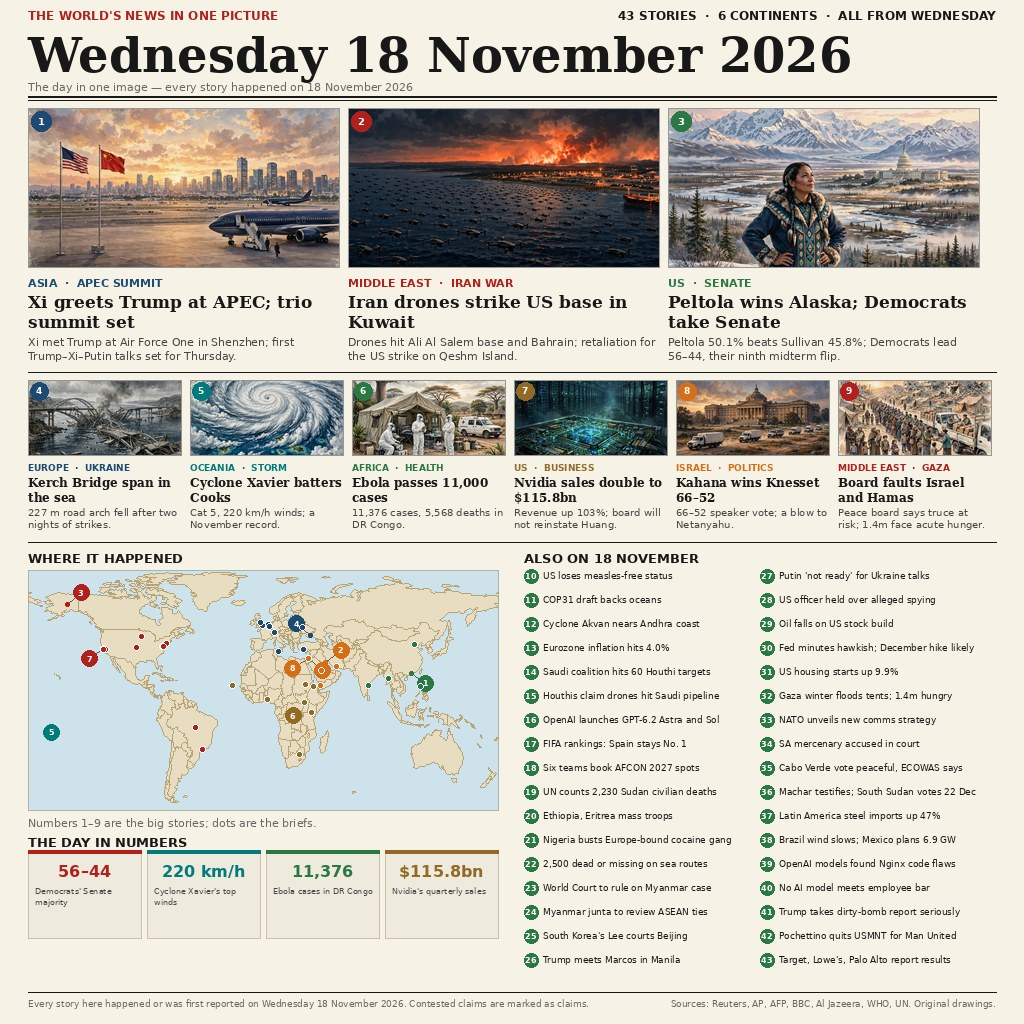
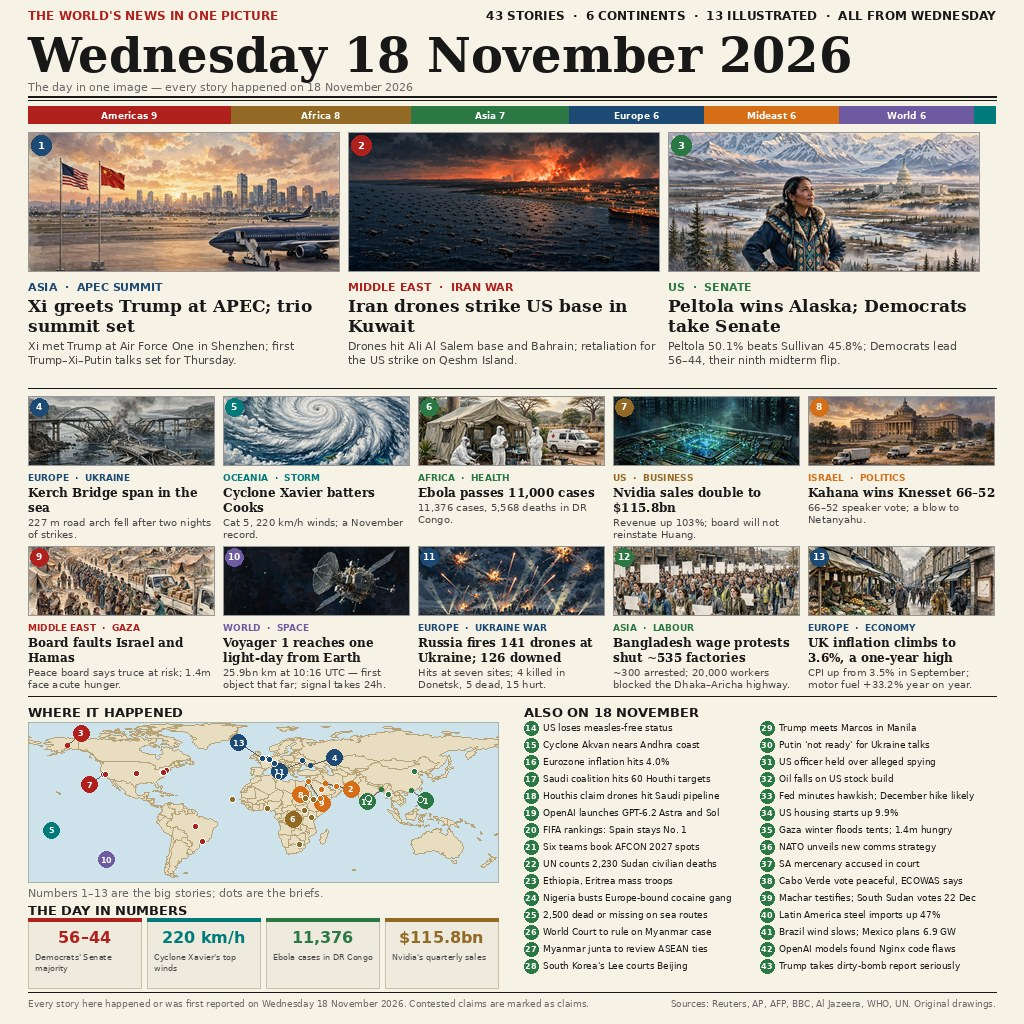
v2: 13 illustrated stories, 10 mediums, region bar

diff --git a/build/build_frontpage.py b/build/build_frontpage.py
@@ -1,11 +1,11 @@
 #!/usr/bin/env python3
-"""Render the make.fun news-image-20261118 front page (1024x1024 JPEG).
+"""Render the make.fun news-image-20261118 front page (1024x1024 JPEG), v2.
 
 Newspaper front page for Wednesday 18 November 2026: 43 verified stories.
 Three large leads with rich AI illustrations (APEC Shenzhen, Iran drones
-in the Gulf, Peltola's Alaska win), six medium stories (all six with AI
-illustrations), a world map with story dots, a
-day-in-numbers strip, and 34 briefs.
+in the Gulf, Peltola's Alaska win), ten medium stories in two rows of five
+(all ten with AI illustrations), a region bar counting all 43 stories, a
+world map with story dots, a day-in-numbers strip, and 30 briefs.
 All facts verified against reporting dated 18 Nov 2026; nothing invented.
 Output is deterministic.
 """
@@ -29,6 +29,7 @@ ORANGE = (214, 110, 24)
 BROWN = (146, 106, 38)
 TEAL = (0, 122, 122)
 GREY = (104, 104, 104)
+WORLD = (110, 90, 160)
 SEA = (206, 226, 235)
 LAND = (233, 221, 193)
 COAST = (182, 164, 120)
@@ -43,6 +44,7 @@ def font(name, size):
 F_KICK = font("DejaVuSans-Bold.ttf", 12)
 F_DATE = font("DejaVuSerif-Bold.ttf", 48)
 F_TAG = font("DejaVuSans.ttf", 11)
+F_REG = font("DejaVuSans-Bold.ttf", 9)
 F_LEAD_KICK = font("DejaVuSans-Bold.ttf", 11)
 F_LEAD_HEAD = font("DejaVuSerif-Bold.ttf", 17)
 F_LEAD_FACT = font("DejaVuSans.ttf", 11)
@@ -119,13 +121,41 @@ def load_ai(fname, w, h, focus=0.5):
 
 # ---------------------------------------------------------------- header
 d.text((28, 8), "THE WORLD'S NEWS IN ONE PICTURE", font=F_KICK, fill=RED)
-right = "43 STORIES  ·  6 CONTINENTS  ·  ALL FROM WEDNESDAY"
+right = "43 STORIES  ·  6 CONTINENTS  ·  13 ILLUSTRATED  ·  ALL FROM WEDNESDAY"
 d.text((W - 28 - d.textlength(right, font=F_KICK), 8), right, font=F_KICK, fill=INK)
 d.text((28, 26), "Wednesday 18 November 2026", font=F_DATE, fill=INK)
 d.text((28, 80), "The day in one image — every story happened on 18 November 2026",
        font=F_TAG, fill=GREY)
 hline(28, W - 28, 96, 2)
 hline(28, W - 28, 100, 1)
+
+# ---------------------------------------------------------------- region bar
+# Story counts per region, counted from the 43 stories below:
+# Americas 9, Africa 8, Asia 7, Europe 6, Middle East 6, World 6, Oceania 1.
+REGIONS = [
+    ("Americas", 9, RED),
+    ("Africa", 8, BROWN),
+    ("Asia", 7, GREEN),
+    ("Europe", 6, BLUE),
+    ("Mideast", 6, ORANGE),
+    ("World", 6, WORLD),
+    ("Oceania", 1, TEAL),
+]
+assert sum(c for _, c, _ in REGIONS) == 43, "region counts must sum to 43"
+BAR_X0, BAR_X1, BAR_Y, BAR_H = 28, W - 28, 106, 18
+bar_w = BAR_X1 - BAR_X0
+x = BAR_X0
+for name, count, col in REGIONS:
+    seg = int(round(bar_w * count / 43))
+    if x + seg > BAR_X1:
+        seg = BAR_X1 - x
+    d.rectangle([x, BAR_Y, x + seg - 1, BAR_Y + BAR_H - 1], fill=col)
+    label = f"{name} {count}"
+    tw = d.textlength(label, font=F_REG)
+    if tw <= seg - 6:
+        d.text((x + (seg - tw) / 2, BAR_Y + 4), label, font=F_REG,
+               fill=(255, 255, 255))
+    x += seg
 
 # ---------------------------------------------------------------- top row: 3 large leads
 LEADS = [
@@ -149,23 +179,25 @@ LEADS = [
               "ninth midterm flip."),
 ]
 LEAD_W = 312
+LEAD_Y = 132
+LEAD_IMG_H = 140
 for i, s in enumerate(LEADS):
     x = 28 + i * (LEAD_W + 8)
-    y = 108
-    im_ai = load_ai(s["fname"], LEAD_W, 160, focus=s["focus"])
+    y = LEAD_Y
+    im_ai = load_ai(s["fname"], LEAD_W, LEAD_IMG_H, focus=s["focus"])
     img.paste(im_ai, (x, y))
-    d.rectangle([x, y, x + LEAD_W - 1, y + 159], outline=(150, 150, 150))
+    d.rectangle([x, y, x + LEAD_W - 1, y + LEAD_IMG_H - 1], outline=(150, 150, 150))
     num_badge(x + 13, y + 13, 10, s["n"], fill=s["col"])
-    ky = y + 168
+    ky = y + LEAD_IMG_H + 8
     d.text((x, ky), s["kick"], font=F_LEAD_KICK, fill=s["col"])
     hy = ky + 16
     hl = wrap(s["head"], F_LEAD_HEAD, LEAD_W)
     hy = text_block(x, hy, hl[:2], F_LEAD_HEAD, leading=20)
     fl = wrap(s["fact"], F_LEAD_FACT, LEAD_W)
     text_block(x, hy + 3, fl[:3], F_LEAD_FACT, fill=(70, 70, 70), leading=14)
-hline(28, W - 28, 372, 1)
+hline(28, W - 28, 388, 1)
 
-# ---------------------------------------------------------------- row: 6 medium stories
+# ---------------------------------------------------------------- rows: 10 medium stories (2 rows x 5)
 MEDS = [
     dict(n=4, kick="EUROPE  ·  UKRAINE", col=BLUE, ai="kerch",
          head="Kerch Bridge span in the sea",
@@ -185,6 +217,18 @@ MEDS = [
     dict(n=9, kick="MIDDLE EAST  ·  GAZA", col=RED, ai="gaza",
          head="Board faults Israel and Hamas",
          fact="Peace board says truce at risk; 1.4m face acute hunger."),
+    dict(n=10, kick="WORLD  ·  SPACE", col=WORLD, ai="voyager",
+         head="Voyager 1 reaches one light-day from Earth",
+         fact="25.9bn km at 10:16 UTC — first object that far; signal takes 24h."),
+    dict(n=11, kick="EUROPE  ·  UKRAINE WAR", col=BLUE, ai="russia-drones",
+         head="Russia fires 141 drones at Ukraine; 126 downed",
+         fact="Hits at seven sites; 4 killed in Donetsk, 5 dead, 15 hurt."),
+    dict(n=12, kick="ASIA  ·  LABOUR", col=GREEN, ai="bangladesh",
+         head="Bangladesh wage protests shut ~535 factories",
+         fact="~300 arrested; 20,000 workers blocked the Dhaka–Aricha highway."),
+    dict(n=13, kick="EUROPE  ·  ECONOMY", col=BLUE, ai="uk-inflation",
+         head="UK inflation climbs to 3.6%, a one-year high",
+         fact="CPI up from 3.5% in September; motor fuel +33.2% year on year."),
 ]
 
 # AI illustrations for medium stories: filename + vertical focus (0=top, 1=bottom).
@@ -195,30 +239,39 @@ AI_MED = {
     "nvidia": ("media-generation-nvidia-chip-0-2642ac14-7763-4ec7-986a-fa57b459742c.webp", 0.75),
     "knesset": ("media-generation-knesset-gaza-0-08787f5a-8976-4c31-b177-139bde160522.webp", 0.3),
     "gaza": ("media-generation-gaza-aid-0-a34c1b88-3103-4328-91de-e1e83174d033.webp", 0.5),
+    "voyager": ("media-generation-voyager-1-0-49edb854-a1ba-4b0e-b0fa-05f321a6e184.webp", 0.5),
+    "russia-drones": ("media-generation-russia-drones-0-cca0fce2-b38a-4e28-9131-cc74fc34234c.webp", 0.5),
+    "bangladesh": ("media-generation-bangladesh-garment-0-67c0545f-ea96-43ed-b5c0-cd161c456cfc.webp", 0.5),
+    "uk-inflation": ("media-generation-uk-inflation-0-b7724f1a-9818-4d4d-99ef-f49ac6d35848.webp", 0.5),
 }
 
-MED_W = 154
-MED_Y = 380
+MED_W = 187
+MED_IMG_H = 70
+MED_Y1 = 396
+ROW_H = 150
 for i, s in enumerate(MEDS):
-    x = 28 + i * (MED_W + 8)
+    row = i // 5
+    col = i % 5
+    x = 28 + col * (MED_W + 8)
+    y = MED_Y1 + row * ROW_H
     fname, focus = AI_MED[s["ai"]]
-    im_ai = load_ai(fname, MED_W, 76, focus=focus)
-    img.paste(im_ai, (x, MED_Y))
-    d.rectangle([x, MED_Y, x + MED_W - 1, MED_Y + 75], outline=(150, 150, 150))
-    num_badge(x + 11, MED_Y + 11, 9, s["n"], fill=s["col"])
-    ky = MED_Y + 82
+    im_ai = load_ai(fname, MED_W, MED_IMG_H, focus=focus)
+    img.paste(im_ai, (x, y))
+    d.rectangle([x, y, x + MED_W - 1, y + MED_IMG_H - 1], outline=(150, 150, 150))
+    num_badge(x + 11, y + 11, 9, s["n"], fill=s["col"])
+    ky = y + MED_IMG_H + 6
     d.text((x, ky), s["kick"], font=F_MED_KICK, fill=s["col"])
     hy = ky + 13
     hl = wrap(s["head"], F_MED_HEAD, MED_W)
     hy = text_block(x, hy, hl[:2], F_MED_HEAD, leading=15)
     fl = wrap(s["fact"], F_MED_FACT, MED_W)
     text_block(x, hy + 1, fl[:2], F_MED_FACT, fill=(70, 70, 70), leading=12)
-hline(28, W - 28, 542, 1)
+hline(28, W - 28, 696, 1)
 
 # ---------------------------------------------------------------- bottom: map + numbers + briefs
-d.text((28, 550), "WHERE IT HAPPENED", font=F_SEC, fill=INK)
-d.text((524, 550), "ALSO ON 18 NOVEMBER", font=F_SEC, fill=INK)
-MAP = (28, 570, 498, 810)
+d.text((28, 704), "WHERE IT HAPPENED", font=F_SEC, fill=INK)
+d.text((524, 704), "ALSO ON 18 NOVEMBER", font=F_SEC, fill=INK)
+MAP = (28, 722, 498, 882)
 d.rectangle(MAP, fill=SEA, outline=(170, 180, 170))
 
 geo = json.load(open(GEO))
@@ -252,16 +305,19 @@ for feat in geo["features"]:
                 draw_poly(ring, MAP)
 
 REG = {"americas": RED, "europe": BLUE, "mideast": ORANGE,
-       "asia": GREEN, "africa": BROWN, "oceania": TEAL}
+       "asia": GREEN, "africa": BROWN, "oceania": TEAL, "world": WORLD}
 NUMBERED = [
     (1, 113.8, 22.5, "asia"), (2, 47.5, 29.3, "mideast"),
     (3, -150.0, 64.0, "americas"), (4, 36.5, 45.3, "europe"),
     (5, -162.0, -13.0, "oceania"), (6, 23.0, -3.0, "africa"),
     (7, -122.0, 37.4, "americas"), (8, 35.2, 31.8, "mideast"),
-    (9, 34.5, 31.5, "mideast"),
+    (9, 34.5, 31.5, "mideast"), (10, -120.0, -40.0, "world"),
+    (11, 31.0, 49.0, "europe"), (12, 90.4, 23.8, "asia"),
+    (13, -0.1, 51.5, "europe"),
 ]
-OFFSETS = {2: (16, -12), 8: (-16, 10), 9: (14, 12), 1: (14, 10),
-           3: (14, -12), 7: (-14, 10), 4: (-14, -12)}
+OFFSETS = {2: (26, 6), 8: (-8, 14), 9: (14, 22), 1: (14, 10),
+           3: (14, -12), 7: (-14, 10), 4: (24, -8), 11: (-24, 10),
+           12: (-14, 12), 13: (-24, -16)}
 for n, lon, lat, reg in NUMBERED:
     x, y = project(lon, lat, MAP)
     dx, dy = OFFSETS.get(n, (0, 0))
@@ -271,7 +327,7 @@ for n, lon, lat, reg in NUMBERED:
         x, y = x + dx, y + dy
     num_badge(x, y, 8, n, fill=REG[reg])
 BRIEF_DOTS = [
-    (-97.0, 38.0, "americas"), (30.7, 36.9, "europe"), (80.5, 15.5, "asia"),
+    (-97.0, 38.0, "americas"), (80.5, 15.5, "asia"),
     (4.35, 50.85, "europe"), (44.2, 15.35, "mideast"), (45.0, 24.0, "mideast"),
     (-122.4, 37.8, "americas"), (8.5, 47.4, "europe"), (36.8, -1.3, "africa"),
     (32.5, 15.6, "africa"), (39.0, 14.5, "africa"), (3.4, 6.5, "africa"),
@@ -281,18 +337,17 @@ BRIEF_DOTS = [
     (-74.0, 40.7, "americas"), (34.8, 31.3, "mideast"), (4.7, 50.6, "europe"),
     (28.0, -26.2, "africa"), (-23.5, 15.1, "africa"), (31.6, 4.85, "africa"),
     (-46.6, -23.5, "americas"), (-52.0, -10.0, "americas"),
-    (-121.0, 37.0, "americas"), (-122.0, 37.0, "americas"),
-    (-76.0, 39.0, "americas"), (-2.2, 53.5, "europe"), (-93.3, 45.0, "americas"),
+    (-121.0, 37.0, "americas"), (-76.0, 39.0, "americas"),
 ]
 for lon, lat, reg in BRIEF_DOTS:
     x, y = project(lon, lat, MAP)
     d.ellipse([x - 3, y - 3, x + 3, y + 3], fill=REG[reg], outline=(255, 255, 255))
 
-d.text((28, 816), "Numbers 1–9 are the big stories; dots are the briefs.",
+d.text((28, 886), "Numbers 1–13 are the big stories; dots are the briefs.",
        font=F_TAG, fill=GREY)
 
 # day in numbers (left column, under the map)
-d.text((28, 834), "THE DAY IN NUMBERS", font=F_SEC, fill=INK)
+d.text((28, 902), "THE DAY IN NUMBERS", font=F_SEC, fill=INK)
 STATS = [
     ("56–44", "Democrats' Senate majority", RED),
     ("220 km/h", "Cyclone Xavier's top winds", TEAL),
@@ -301,57 +356,53 @@ STATS = [
 ]
 for i, (num, lab, col) in enumerate(STATS):
     x = 28 + i * (113 + 6)
-    y = 850
-    d.rectangle([x, y, x + 113, y + 88], fill=(238, 234, 222),
+    y = 918
+    d.rectangle([x, y, x + 113, y + 70], fill=(238, 234, 222),
                 outline=(200, 192, 170))
     d.rectangle([x, y, x + 113, y + 3], fill=col)
     nw = d.textlength(num, font=F_NUM)
-    d.text((x + (113 - nw) / 2, y + 12), num, font=F_NUM, fill=col)
+    d.text((x + (113 - nw) / 2, y + 10), num, font=F_NUM, fill=col)
     ll = wrap(lab, F_NUM_LAB, 100)
-    text_block(x + 7, y + 36, ll[:3], F_NUM_LAB, fill=(70, 70, 70), leading=11)
+    text_block(x + 7, y + 34, ll[:2], F_NUM_LAB, fill=(70, 70, 70), leading=11)
 
-# briefs list (right side, two columns of 17; numbers 10–43)
+# briefs list (right side, two columns of 15; numbers 14–43)
 BRIEFS = [
-    (10, "US loses measles-free status"),
-    (11, "COP31 draft backs oceans"),
-    (12, "Cyclone Akvan nears Andhra coast"),
-    (13, "Eurozone inflation hits 4.0%"),
-    (14, "Saudi coalition hits 60 Houthi targets"),
-    (15, "Houthis claim drones hit Saudi pipeline"),
-    (16, "OpenAI launches GPT-6.2 Astra and Sol"),
-    (17, "FIFA rankings: Spain stays No. 1"),
-    (18, "Six teams book AFCON 2027 spots"),
-    (19, "UN counts 2,230 Sudan civilian deaths"),
-    (20, "Ethiopia, Eritrea mass troops"),
-    (21, "Nigeria busts Europe-bound cocaine gang"),
-    (22, "2,500 dead or missing on sea routes"),
-    (23, "World Court to rule on Myanmar case"),
-    (24, "Myanmar junta to review ASEAN ties"),
-    (25, "South Korea's Lee courts Beijing"),
-    (26, "Trump meets Marcos in Manila"),
-    (27, "Putin 'not ready' for Ukraine talks"),
-    (28, "US officer held over alleged spying"),
-    (29, "Oil falls on US stock build"),
-    (30, "Fed minutes hawkish; December hike likely"),
-    (31, "US housing starts up 9.9%"),
-    (32, "Gaza winter floods tents; 1.4m hungry"),
-    (33, "NATO unveils new comms strategy"),
-    (34, "SA mercenary accused in court"),
-    (35, "Cabo Verde vote peaceful, ECOWAS says"),
-    (36, "Machar testifies; South Sudan votes 22 Dec"),
-    (37, "Latin America steel imports up 47%"),
-    (38, "Brazil wind slows; Mexico plans 6.9 GW"),
-    (39, "OpenAI models found Nginx code flaws"),
-    (40, "No AI model meets employee bar"),
-    (41, "Trump takes dirty-bomb report seriously"),
-    (42, "Pochettino quits USMNT for Man United"),
-    (43, "Target, Lowe's, Palo Alto report results"),
+    (14, "US loses measles-free status"),
+    (15, "Cyclone Akvan nears Andhra coast"),
+    (16, "Eurozone inflation hits 4.0%"),
+    (17, "Saudi coalition hits 60 Houthi targets"),
+    (18, "Houthis claim drones hit Saudi pipeline"),
+    (19, "OpenAI launches GPT-6.2 Astra and Sol"),
+    (20, "FIFA rankings: Spain stays No. 1"),
+    (21, "Six teams book AFCON 2027 spots"),
+    (22, "UN counts 2,230 Sudan civilian deaths"),
+    (23, "Ethiopia, Eritrea mass troops"),
+    (24, "Nigeria busts Europe-bound cocaine gang"),
+    (25, "2,500 dead or missing on sea routes"),
+    (26, "World Court to rule on Myanmar case"),
+    (27, "Myanmar junta to review ASEAN ties"),
+    (28, "South Korea's Lee courts Beijing"),
+    (29, "Trump meets Marcos in Manila"),
+    (30, "Putin 'not ready' for Ukraine talks"),
+    (31, "US officer held over alleged spying"),
+    (32, "Oil falls on US stock build"),
+    (33, "Fed minutes hawkish; December hike likely"),
+    (34, "US housing starts up 9.9%"),
+    (35, "Gaza winter floods tents; 1.4m hungry"),
+    (36, "NATO unveils new comms strategy"),
+    (37, "SA mercenary accused in court"),
+    (38, "Cabo Verde vote peaceful, ECOWAS says"),
+    (39, "Machar testifies; South Sudan votes 22 Dec"),
+    (40, "Latin America steel imports up 47%"),
+    (41, "Brazil wind slows; Mexico plans 6.9 GW"),
+    (42, "OpenAI models found Nginx code flaws"),
+    (43, "Trump takes dirty-bomb report seriously"),
 ]
 for i, (n, txt) in enumerate(BRIEFS):
-    col = i // 17
-    row = i % 17
+    col = i // 15
+    row = i % 15
     x = 524 + col * 236
-    y = 570 + row * 24
+    y = 722 + row * 17
     num_badge(x + 7, y + 6, 7, n, fill=GREEN)
     d.text((x + 19, y), txt, font=F_BRIEF, fill=INK)
 
